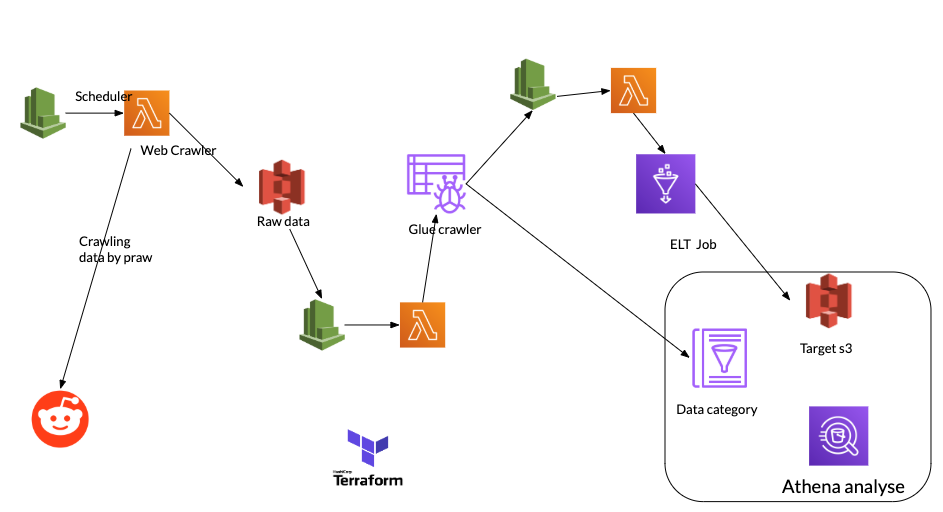
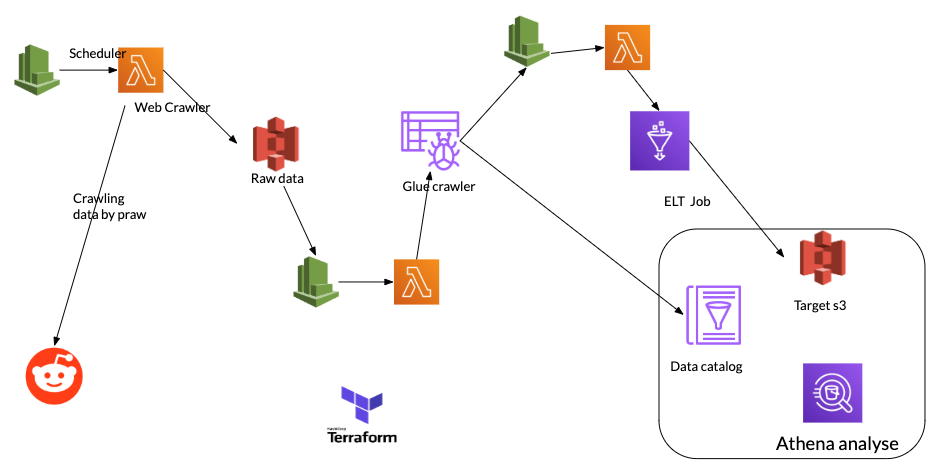
update readme

diff --git a/README.md b/README.md
@@ -10,7 +10,7 @@ The web crawler is implemented in `praw`, a `Python` library used to crawl data 
 
 ## Glue Crawler
 
-Glue crawler is different than the `web crawler`. It is actually a piece of logic to discover the data schema from your s3 bucket. It works like a crawler to dig into your bucket and use customised and build-in classifier to find the schema. The customised classifier is defined in `Terraform` configuration file: `glue.tf`. The output of this step is a datalog saved in Glue database table for later analyse in `Athena`.
+Glue crawler is different than the `web crawler`. It is actually a piece of logic to discover the data schema from your s3 bucket. It works like a crawler to dig into your bucket and use customised and build-in classifier to find the schema. The customised classifier is defined in `Terraform` configuration file: `glue.tf`. The output of this step is a catalog saved in Glue database table for later analyse in `Athena`.
 
 ## Glue Job
 
